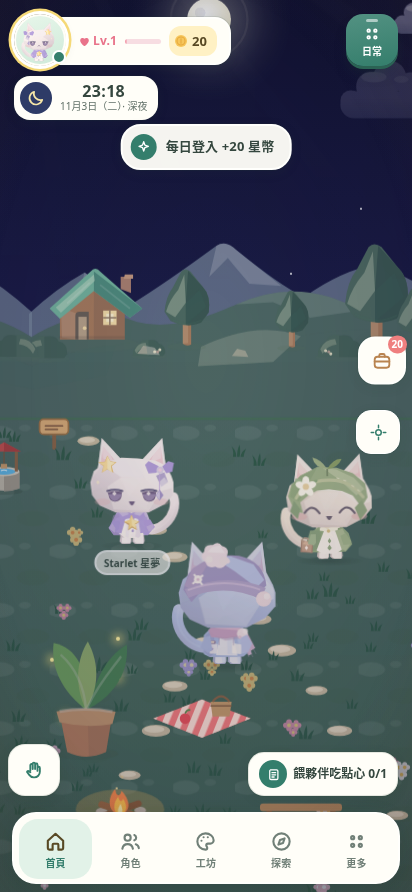
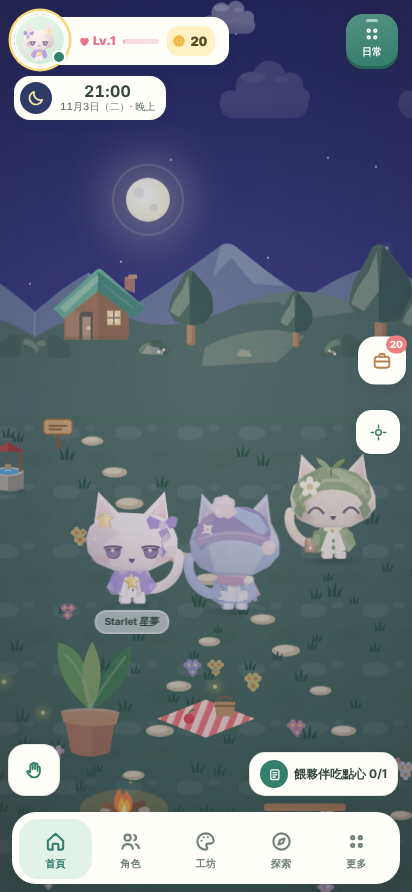
Docs for 3.3.0: changelog, validation, perf results, fresh previews
Claude-Session: https://claude.ai/code/session_01PAZxUWYSXivG7TcYhGwwbH

diff --git a/docs/VALIDATION.md b/docs/VALIDATION.md
@@ -1,51 +1,49 @@
-# 3.2.2 驗證紀錄
+# 3.3.0 驗證紀錄
 
 驗證日期：2026-11-03。
 
 ## Android 建置
 
-- JDK 17、Android SDK 35、Build Tools 35.0.0、Gradle 8.11.1。
-- `assembleDebug lintDebug`：**BUILD SUCCESSFUL**。
-- Lint：**0 errors、3 warnings**。剩餘提示為固定版 AndroidX 可升級，以及 API 33 返回屬性在舊版系統會忽略；返回處理有版本判斷。
-- APK 通過 `apksigner verify`。版本 3.2.2、versionCode 30202、minSdk 26、targetSdk 35。
-- 簽章與此對話先前的 3.2.1 測試 APK 相同。可直接覆蓋該 APK 更新，不需解除安裝。
+- JDK 21（目標 Java 17）、Android SDK Platform 35、Build Tools 35.0.0、Gradle 8.11.1、AGP 8.9.2。
+- `./gradlew assembleDebug lintDebug`：**BUILD SUCCESSFUL**。
+- Lint：**0 errors、3 warnings**（AndroidX 有新版可升級兩則；`enableOnBackInvokedCallback` 在 API 33 以下會被忽略，程式已有版本判斷）。
+- APK：版本 3.3.0、versionCode 30300、minSdk 26、targetSdk 35，以專案內 `app/debug.keystore` 簽署並通過 `apksigner verify`。
 
-## 49 項瀏覽器流程回歸
+## 瀏覽器流程回歸：57 項
 
-使用隔離的 Chromium、412 × 892 觸控模式與 mock `OCNative`。指令：
+隔離的 Chromium、412 × 892 觸控模式與 mock `OCNative`：
 
 ```sh
-python tests/web_regression.py --chromium /usr/bin/chromium
+python tests/web_regression.py --chromium /path/to/chromium
 ```
 
-涵蓋啟動、五個導覽入口、畫面品質切換與保存、App 暫停／恢復、面板暫停背景、快捷面板返回、相機不隨跳躍上下晃動、拍照橋接與隱藏介面、PNG 角色匯入、備份下載與分享、商店搜尋／空狀態／購買與庫存、房間和角色編輯、地形碰撞等價性、主題與圖片保存，以及完整備份還原個性、技能、角色引用 ID、擺設與畫面偏好。
+原有 49 項全部保留，另新增：雲朵不使用合成器動畫、晴天隱藏天氣畫布、更新節奏為整數個刷新、其他分頁不更新小島、回到首頁恢復更新、背包蓋住鏡頭按鈕、返回鍵關閉背包、橫向快捷卡片不被導覽遮住。**全部通過，無 JavaScript 執行例外。**
 
-另檢查 320 × 720、412 × 892 與 892 × 412 的導覽邊界／橫向溢位。完整紀錄見 `web-regression-results.json`。**全部通過，無 JavaScript 執行例外。**
-
-夜間另確認星空與螢火蟲的顯示狀態會隨時間更新，星空不再卡在白天的隱藏狀態。
+另以腳本逐一開啟商店、任務、設定、圖鑑、共同生活、更多、時間天氣、頭像快捷卡、日常抽屜、快捷動作、背包、資源膠囊、拍照模式、佈置與換裝編輯器、角色檔案、導覽自訂、商品詳情與各分頁，確認 Android 返回鍵都能關閉（商品詳情兩層需兩次）。
 
 ## 效能量測
 
-Linux Chromium 154.0.8037.57、412 × 892、DPR 1、觸控模式。自動行為與天氣會影響結果；以下是單次取樣，非 Android 手機實測。
+Linux Chromium、412 × 892、DPR 1、觸控模式、4 倍 CPU 降速，與 3.2.2 原版在相同環境交替量測。
 
-| 條件 | 平均每幀 | 約當 FPS | 95 百分位幀時間 |
-| --- | ---: | ---: | ---: |
-| 原版，4 倍 CPU 降速，10 秒 | 123.29 ms | 8.1 | 166.7 ms |
-| 3.2.2 最終整合，4 倍 CPU 降速，10 秒 | 24.01 ms | 41.6 | 50.0 ms |
-| 3.2.2 最終整合，不降速，5 秒 | 16.67 ms | 60.0 | 16.8 ms |
+`tests/performance_audit.py --throttle 4 --seconds 10`，各三次：
 
-持續繪製中的首頁元素由約 4,200 個減至約 1,350 個；啟動量測中的持續動畫由三百多個減至約 6–10 個。保留使用者素材與可互動物件，靜態背景以合併圖片顯示。
+| | 平均每幀 | 95 百分位 | >50 ms 幀數 | 10 秒內畫面數 | 主執行緒工作 |
+| --- | ---: | ---: | ---: | ---: | ---: |
+| 3.2.2 | 24.6 ms | 50.0 ms | 14 | 407 | 8.80 s |
+| 3.3.0 | 19.4 ms | 33.4 ms | 9 | 517 | 7.48 s |
 
-開發過程亦量測夜間、雷雨、雪天與八位居民。4 倍降速下平均約 20–35 ms／幀，重負載仍可能掉幀；這些情境取樣在最後的鏡頭／量測修正之前，僅作壓力測試紀錄。最終 FPS 不應由該表推估所有機型。
+固定亂數種子與時間（11:00）的對照量測：
 
-原始數據見 `performance-results.json`。可用以下指令重新量測當前版本：
+| 指標 | 3.2.2 | 3.3.0 |
+| --- | ---: | ---: |
+| 圖層建立／拆除（次／秒） | 8.8–11.5 | 4.6–5.9 |
+| 合成圖層數 | 61–71 | 57–64 |
+| 螢幕上的圖層總面積 | 約 9.4 個畫面 | 約 6.2 個畫面 |
+| 平均每幀（rAF 間隔） | 32.8–39.6 ms | 21.9–23.5 ms |
+| 95 百分位 | 66.7 ms | 33.4–50 ms |
 
-```sh
-python tests/performance_audit.py --chromium /usr/bin/chromium --throttle 4 --seconds 10
-```
+在 6 倍降速下，自適應節奏會切換為穩定半速；不降速時維持每格更新。
 
 ## 真機驗證限制
 
-目前沒有 Android 真機或模擬器測試。瀏覽器檢查可驗證 HTML、操作與資料流程，不能驗證 Android 的系統選檔、分享接收、PixelCopy 實際影像、定位授權、鍵盤／導覽手勢與各機型 GPU 表現。APK 已編譯並驗證簽章，以上裝置行為仍需在手機確認。
-
-`android-preview.png` 等圖片是手機尺寸的瀏覽器截圖，不是真機截圖。GitHub Actions 的建置與回歸工作流程已提供，尚未在使用者的 repository 執行。
+目前沒有 Android 真機或模擬器。瀏覽器量測能驗證主執行緒工作量、圖層數量與圖層變動次數，但無法重現各家手機 GPU 的圖塊記憶體上限、實際幀率與閃爍表現；以上圖層與重繪的減少正是針對這些問題，仍需在手機上確認。系統選檔、分享、PixelCopy 拍照、定位授權與鍵盤行為同樣需要真機確認。

diff --git a/README.md b/README.md
@@ -1,31 +1,28 @@
-# OC Shimeji Android 3.2.2
+# OC Shimeji Android 3.3.0
 
 把 `oc-shimeji-3_2_1-stable.html` 包裝成可離線執行的 Android App，保留原有繁體中文介面、角色、小島、養成、商店、繪畫工坊與動畫工作室。Android 層使用 Java + WebView，無需架設網站或後端。
 
 ![手機尺寸畫面預覽](docs/android-preview.png)
 
-## 3.2.2 效能與體驗更新
+## 3.3.0：流暢度與閃爍修正
 
-這一版直接修正場景引擎的重複更新、排序互相覆寫和強制重排，並減少 Android WebView 的合成圖層負擔：
+這一版針對「卡頓、掉 FPS、不斷閃爍」逐項量測後修正根本原因：
 
-- 靜態花海／草地合成單一已解碼圖片；保留互動物件、碰撞、原始角色素材與存檔格式。
-- 環境與角色共用更新迴圈，隱藏頁面、開啟面板與切到背景時暫停不必要工作。
-- 角色跳躍不再帶著整座島上下晃動；鏡頭跟隨有緩衝區。
-- 修正角色與家具排序反覆覆寫，以及縮放後週期性重建圖層的閃爍來源。
-- 對話改用場景座標定位，不再逐幀量測角色；移除看不見的逐字動畫。
-- 底部導覽預設有文字、HUD 尺寸固定，返回鍵可關閉快捷面板和拍照模式。
-- 設定新增「流暢／省電／完整動態」；預設流暢，省電模式以 30 FPS 為更新上限。
-- Android 拍照模式可直接擷取 App 畫面並另存 PNG。
-- 完整備份還原補上新版個性、技能、圖鑑、島上擺設、畫面偏好與導覽設定，並轉換角色 ID；完成後會重新載入小島。
+- **閃爍：** GPU 圖層不再隨角色走動反覆建立與拆除（變動次數減半以上）；雲朵不再把山丘與整片草地拆成額外圖層，螢幕上的圖層總面積由約 9.4 個畫面降到約 6 個；晴天隱藏比螢幕大 5 倍的天氣畫布；深色模式啟動不再先閃淺色。
+- **流暢度：** 更新節奏對齊螢幕刷新（90 Hz 手機不再被鎖在不穩定的 45 FPS）；裝置來不及時改用穩定半速而不是忽快忽慢，觸碰時立即恢復；其他分頁不再更新看不見的小島；切換分頁不再強制同步排版。
+- **介面：** 太陽／月亮不被 HUD 遮住、導覽圖示顏色一致、面板不再有粗焦點框、背包不被鏡頭按鈕擋住、橫向快捷卡片不被導覽擋住、返回鍵可關閉所有面板。
+- **安裝：** 內附共用 debug 簽章，之後的 debug APK 都可直接覆蓋安裝。
 
-測試結果和量測限制見 [docs/VALIDATION.md](docs/VALIDATION.md)，變更說明見 [docs/CHANGELOG-3.2.2.md](docs/CHANGELOG-3.2.2.md)。
+在 4 倍 CPU 降速的瀏覽器量測中，平均每幀由 24.6 ms 降到 19.4 ms，95 百分位由 50 ms 降到 33.4 ms，同時主執行緒工作時間減少約 15%。詳見 [docs/CHANGELOG-3.3.0.md](docs/CHANGELOG-3.3.0.md) 與 [docs/VALIDATION.md](docs/VALIDATION.md)。
+
+> **從 3.2.2 或更早版本升級：** 舊 APK 是用另一把 debug 金鑰簽署的，這一次必須先解除安裝才能安裝 3.3.0。**解除安裝會刪除存檔**，請先在「設定 → 資料 → 匯出完整備份」另存備份檔，安裝 3.3.0 後在同一處用「匯入完整備份／角色包」還原。之後的版本都使用專案內的同一把金鑰，可直接覆蓋更新。
 
 ## 快速開始：在 GitHub 取得 APK
 
 1. 解壓縮專案，在 GitHub 建立一個空白 repository。
 2. 將專案根目錄的**所有檔案與資料夾**上傳至 repository。根目錄必須直接看得到 `settings.gradle.kts`、`gradlew` 和 `app/`，並且要包含隱藏的 `.github/workflows/android.yml` 與 `gradle/wrapper/gradle-wrapper.jar`。不要只上傳 ZIP，也不要多包一層資料夾。
 3. 推送到 `main` 或 `master` 後，開啟 GitHub 的 **Actions → Build Android APK**。也可點 **Run workflow** 手動建置。
-4. 等待綠色勾勾，打開該次執行，在 **Artifacts** 下載 `OC-Shimeji-3.2.2-debug`，解壓縮後取得 `app-debug.apk`。
+4. 等待綠色勾勾，打開該次執行，在 **Artifacts** 下載 `OC-Shimeji-3.3.0-debug`，解壓縮後取得 `app-debug.apk`。
 5. 將 APK 傳到 Android 手機開啟，依系統提示允許該來源安裝，再安裝 App。
 
 GitHub Actions 會執行 `assembleDebug lintDebug`，以及獨立的瀏覽器流程回歸檢查，不需要 GitHub Secrets 或自行準備簽署金鑰。若 repository 的 Actions 被停用，先在該 repository 的 Actions 頁面啟用。
@@ -94,7 +91,7 @@ chmod +x gradlew
 
 ## 正式版簽署
 
-Actions 產物是供安裝測試的 **debug APK**。GitHub 的不同執行環境可能產生不同的 debug 金鑰，因此不同次下載的 APK 不保證可以直接覆蓋安裝；若遇到簽章不同，先備份資料。
+Actions 產物是供安裝測試的 **debug APK**，使用專案內附的 `app/debug.keystore`（密碼 `android`）簽署，因此每次建置的 debug APK 都能互相覆蓋安裝。這把金鑰是公開的，只能用於除錯版。
 
 正式發佈請在 Android Studio 選 **Build → Generate Signed App Bundle / APK**，建立並妥善保管自己的 release keystore。使用相同金鑰簽署後續版本，並遞增 `app/build.gradle.kts` 中的 `versionCode`。此專案不內含私人金鑰，`assembleRelease` 預設產生未簽署 APK；不要直接作為正式安裝檔發佈。Play 商店上架時請確認當時的 target SDK 要求。
 

diff --git a/docs/CHANGELOG-3.3.0.md b/docs/CHANGELOG-3.3.0.md
@@ -1,0 +1,39 @@
+# 3.3.0 修整紀錄
+
+本版針對「整個 App 卡頓、掉 FPS、不斷閃爍」逐項量測後修正根本原因，並補上幾個操作與畫面上的問題。存檔格式不變，可直接沿用舊進度。
+
+## 閃爍
+
+- **GPU 圖層不再反覆建立／拆除。** 角色走過家具、做出擠壓動作時，原本每秒有 9–12 次圖層新增或移除；Android WebView 會把這種變化顯示成整塊閃一下。家具與角色會動的部位改為固定圖層，變動次數減半以上。
+- **雲朵不再拖著整片背景一起變成獨立圖層。** 合成器動畫讓後面的山丘、草地（1250×1931）等全部被拆成額外圖層。雲改為一般位移、以一個裝置像素為單位移動。螢幕上的圖層總面積由約 9.4 個畫面降到約 6 個畫面，手機 GPU 的填充量與記憶體壓力明顯下降。
+- 晴天時隱藏比螢幕大 5 倍的天氣畫布；沒有彩虹、沒有霧時，對應的全螢幕圖層也不再繪製。
+- 角色的前後深度以約 2 px 為單位更新，走路時不再每一格改寫 z-index（每次都會觸發重新分層）。
+- HUD 不再在閒置 5 秒後切換整個 `#app` 的 class（整份文件重新計算樣式、HUD 淡入淡出）。
+- 啟動時直接使用上次的主題底色，並加入夜間資源；深色模式開啟 App 不會先閃一下淺色。系統列顏色與頁面背景一致，重複的主題通知會被忽略。
+- WebView 開啟整頁預先光柵化，回到 App 或快速移動鏡頭時不會出現空白方塊；關閉邊緣拉伸效果。
+
+## 卡頓與 FPS
+
+- **畫面更新改以整數個螢幕刷新為單位。** 舊版用時間差跳格：90 Hz 手機被鎖在不穩定的 45 FPS，60 Hz 手機遇到 vsync 誤差會隨機少一次更新。現在 60/90 Hz 每格更新，120/144 Hz 每兩格更新；省電模式約 30 次／秒。
+- **自適應節奏：** 手機持續來不及完成畫面時，改用穩定的半速節奏取代忽快忽慢的掉格；手指觸碰時立刻恢復全速，平穩一段時間後再自動嘗試全速。「完整動態」模式不套用。
+- 切到其他分頁時，不再更新看不見的小島角色。
+- 切換分頁不再為一個早已隱藏的導覽指示條強制同步排版（每次點分頁都重新排版整頁）。
+- 換裝配件判斷是否鏡像時，改讀引擎已寫入的 `scaleX`，不再每次量測版面；隱藏中的工坊預覽也因此判斷正確。
+- 雲朵每秒最多 24 次、且只有實際移動一個裝置像素時才重繪。
+
+## 介面與操作
+
+- 太陽與月亮移到 HUD 下方，不再被頂部膠囊遮住。
+- 底部導覽目前分頁的圖示顏色與文字一致（原本是舊版黃色分頁的棕色）。
+- 開啟面板時不再在整張面板外圍出現粗的焦點框。
+- 背包抽屜展開時蓋在「跟隨鏡頭」按鈕上面，不再被它擋住第三個物品。
+- 橫向畫面中，點頭像出現的快捷卡片移到右側並可捲動，不會被底部導覽擋住「完整檔案」按鈕。
+- **返回鍵：** 現在可以關閉快捷背包與展開的資源膠囊。所有面板、編輯器、拍照模式都可一次返回關閉。
+- 系統字體放大時，App 內文字跟著放大到 115% 為止，避免 HUD 文字互相重疊。
+- 按下時的回饋改為不影響排版的亮度變化。
+
+## 建置
+
+- 專案內附共用的 debug 簽章金鑰 `app/debug.keystore`（密碼 `android`，僅供除錯版）。之後不論在哪台電腦或 GitHub Actions 建置，debug APK 都能直接覆蓋安裝，不再因簽章不同而必須解除安裝。
+- 版本 3.3.0（versionCode 30300）。
+- 瀏覽器回歸檢查增加到 57 項。

diff --git a/docs/CHANGELOG-3.2.2.md b/docs/CHANGELOG-3.2.2.md
@@ -31,6 +31,6 @@
 - 延伸資料先驗證，成功還原後重新載入小島，避免記憶體中殘留舊狀態。
 - 舊版角色包／備份格式維持相容；未修改使用者圖片或清除既有資料。
 - 整理原檔提前結束 HTML 後又追加多個版本的結構；拆出繪製與 UI 模組。
-- 新增 49 項瀏覽器整合檢查與可重複執行的效能量測工具，加入 GitHub Actions。
+- 新增 49 項瀏覽器整合檢查（3.3.0 增加到 57 項）與可重複執行的效能量測工具，加入 GitHub Actions。
 
 Android 系統選檔、分享、PixelCopy 與裝置實際幀率仍需真機驗證。詳細測試條件見 VALIDATION.md。
